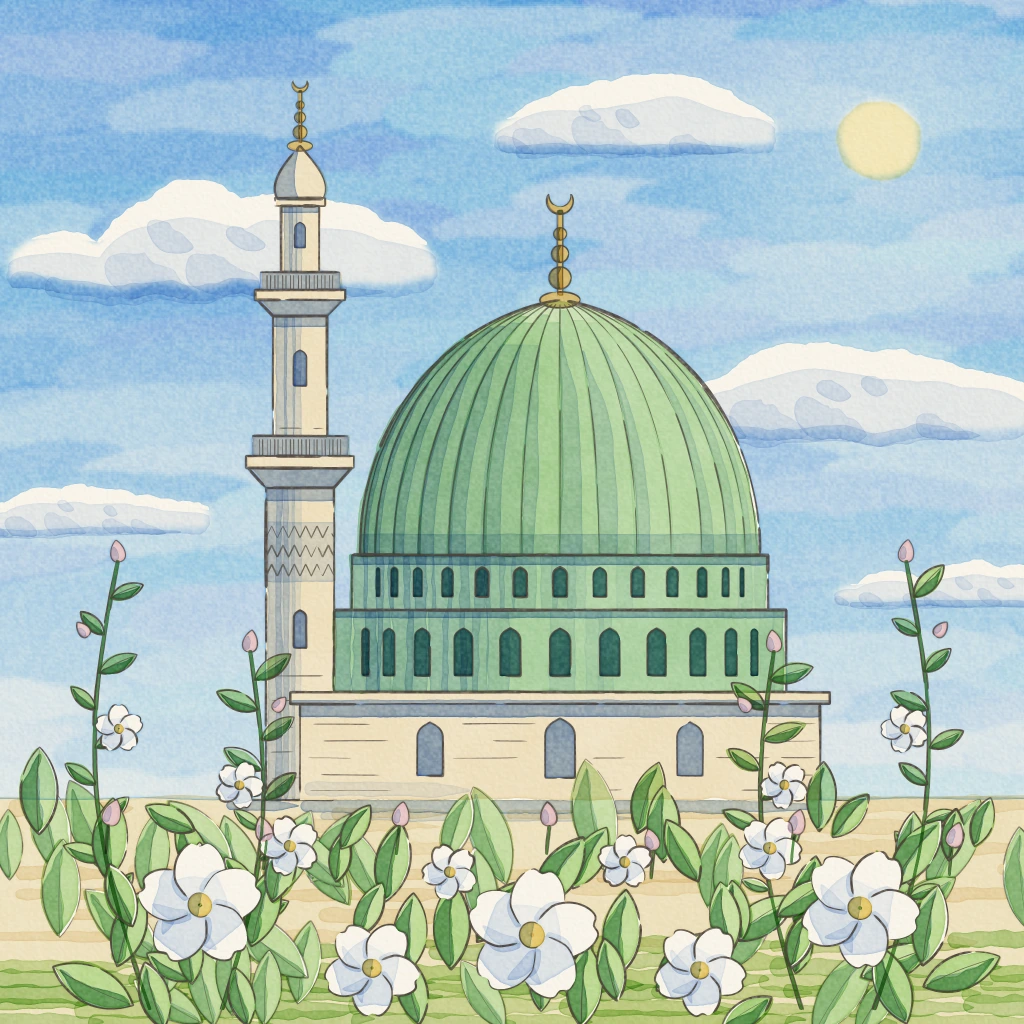
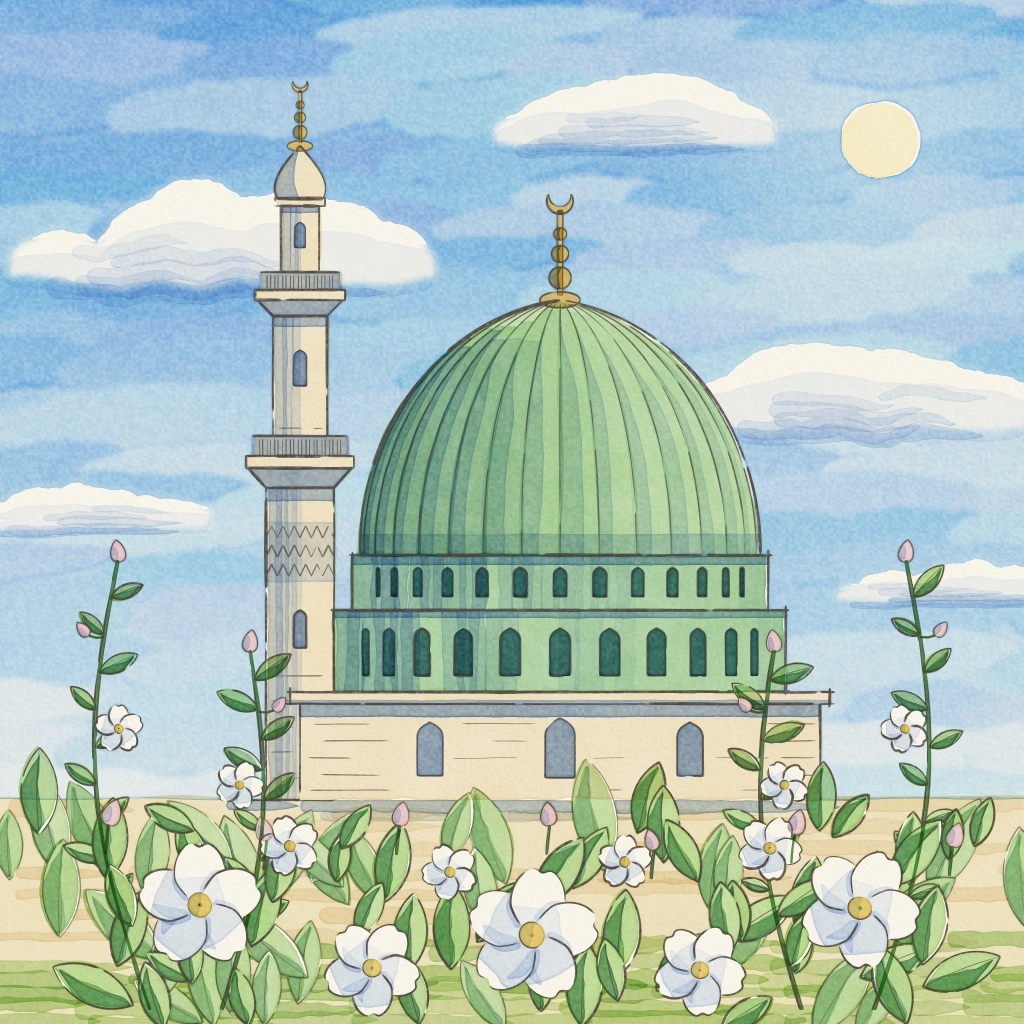
Atölye: ikinci iyileştirme turu: S-210, S-215, S-219, S-225
Claude-Session: https://claude.ai/code/session_01Q8CfoBGMPN7gfLWQYpMs1J

diff --git a/atolye/stiller/S-219-topografik-renkli-cizim/ornek.html b/atolye/stiller/S-219-topografik-renkli-cizim/ornek.html
@@ -603,23 +603,6 @@ function cicekBicimi(c) {
   }
   return out;
 }
-/** Düzensiz, yatay uzanan bulut biçimi (tabanı düzce, üstü yumuşak dalgalı; pul pul değil). */
-function bulutBicimi(cx, cy, rx, ry, tohum) {
-  const nz = gurultu(tohum);
-  const pts = [];
-  const n = 120;
-  for (let i = 0; i < n; i++) {
-    const t = (i / n) * Math.PI * 2;
-    const c = Math.cos(t);
-    const s = Math.sin(t);
-    let r = 1 + 0.22 * (nz.n(c * 1.6 + 5, s * 1.6 + 5) - 0.5) * 2 + 0.08 * (nz.n(c * 4 + 9, s * 4 + 2) - 0.5) * 2;
-    let x = cx + c * rx * r;
-    let y = cy + s * ry * r * (s < 0 ? 1.05 : 0.55);
-    if (s > 0) y = Math.min(y, cy + ry * 0.38 + (nz.n(c * 3, 7) - 0.5) * ry * 0.15);
-    pts.push([x, y]);
-  }
-  return pts;
-}
 /** Sahnedeki bütün biçimler (titreme genliği amp). */
 function sahneSekilleri(amp) {
   amp = amp == null ? 0.6 : amp;
@@ -664,163 +647,6 @@ function sahneSekilleri(amp) {
   G.tomurcukSekil = sekil(G.tomurcuklar.map((t) => t.pts));
   G.saplar = B.saplar;
   return G;
-}
-
-/**
- * Kümülüs bulutu: birkaç farklı boyda tümseğin yumuşak birleşimi (pul pul değil), tabanı düzce.
- * Döner: {pts: dış çizgi, ust(x): üst kenar yüksekliği, taban, x0, x1, golge(oran, tohum): alt kısmın çokgeni}
- */
-function kumulus(x0, x1, taban, h, tohum) {
-  const r = S.rng(tohum);
-  const nz = gurultu(tohum);
-  const w = x1 - x0;
-  const k = 3 + Math.floor(r() * 2);
-  const tum = [{ c: x0 + w * (0.36 + 0.26 * r()), s: w * (0.26 + 0.06 * r()), h }];
-  for (let i = 1; i < k; i++) tum.push({ c: x0 + w * (0.14 + 0.72 * r()), s: w * (0.13 + 0.14 * r()), h: h * (0.42 + 0.4 * r()) });
-  const tau = h * 0.14;
-  const N = 90;
-  const ust = [];
-  const alt = [];
-  const yuk = [];
-  for (let i = 0; i <= N; i++) {
-    const t = i / N;
-    const x = x0 + w * t;
-    let s = 0;
-    for (const b of tum) {
-      const d = (x - b.c) / b.s;
-      const v = d * d < 1 ? b.h * Math.pow(1 - d * d, 0.85) : 0;
-      s += Math.exp(v / tau);
-    }
-    let ht = tau * Math.log(Math.max(1, s - (tum.length - 1)));
-    ht *= Math.pow(Math.sin(Math.PI * t), 0.35);
-    ht += h * 0.05 * (nz.n(t * 7, 1) - 0.5) * 2 * Math.sin(Math.PI * t);
-    ht = Math.max(ht, h * 0.1 * Math.pow(Math.sin(Math.PI * t), 0.5));
-    yuk.push(ht);
-    ust.push([x, taban - ht]);
-    alt.push([x, taban + h * 0.07 * Math.pow(Math.sin(Math.PI * t), 0.6) + h * 0.03 * (nz.n(t * 5, 9) - 0.5)]);
-  }
-  const pts = ust.concat(alt.slice().reverse());
-  function golge(oran, ek) {
-    const g = [];
-    for (let i = 0; i <= N; i++) {
-      const t = i / N;
-      const kes = taban - yuk[i] * oran + h * 0.09 * (nz.n(t * 4 + ek, 3 + ek) - 0.5) * 2;
-      g.push([ust[i][0], Math.max(ust[i][1], Math.min(alt[i][1] - 0.5, kes))]);
-    }
-    return g.concat(alt.slice().reverse());
-  }
-  return { pts, golge, taban, x0, x1, h, yuk, ust, alt };
-}
-
-/**
- * Yatay bulut kümesi (stratokümülüs): uzun, alçak; üstü düzensiz dalgalı, uçları ince kuyruklu, tabanı düz.
- * Döner kumulus ile aynı biçimde nesne.
- */
-function bulutBandi(x0, x1, taban, h, tohum) {
-  const nz = gurultu(tohum);
-  const r = S.rng(tohum);
-  const w = x1 - x0;
-  const N = 110;
-  const ust = [];
-  const alt = [];
-  const yuk = [];
-  const tum = [];
-  const nt = 3 + Math.floor(r() * 3);
-  for (let i = 0; i < nt; i++) tum.push({ c: 0.18 + (0.64 * (i + 0.2 + r() * 0.6)) / nt, s: 0.09 + r() * 0.09, a: 0.45 + r() * 0.55 });
-  tum[Math.floor(r() * nt)].a = 1;
-  let enb = 0;
-  const ham = [];
-  for (let i = 0; i <= N; i++) {
-    const t = i / N;
-    let v = 0;
-    for (const b of tum) v = Math.max(v, b.a * Math.exp(-Math.pow((t - b.c) / b.s, 2)));
-    let v2 = 0;
-    for (const b of tum) v2 += b.a * Math.exp(-Math.pow((t - b.c) / b.s, 2));
-    ham.push(0.65 * v + 0.35 * Math.min(1.2, v2));
-    enb = Math.max(enb, ham[i]);
-  }
-  for (let i = 0; i <= N; i++) {
-    const t = i / N;
-    const x = x0 + w * t;
-    const kuyruk = Math.pow(Math.sin(Math.PI * t), 0.3);
-    let ht = h * kuyruk * (0.26 + 0.74 * (ham[i] / enb)) + h * 0.04 * (nz.n(t * 9, 1.3) - 0.5) * 2 * kuyruk;
-    ht = Math.max(ht, h * 0.16 * kuyruk);
-    yuk.push(ht);
-    ust.push([x, taban - ht]);
-    alt.push([x, taban + h * 0.12 * Math.pow(Math.sin(Math.PI * t), 0.5) * (0.6 + 0.8 * nz.n(t * 6 + 20, 4))]);
-  }
-  const pts = ust.concat(alt.slice().reverse());
-  const ortYuk = yuk.reduce((a, v) => a + v, 0) / yuk.length;
-  function golge(oran, ek) {
-    const g = [];
-    for (let i = 0; i <= N; i++) {
-      const t = i / N;
-      // gölgenin üst sınırı tümseklerin tepesini izlemez (sırt gibi görünmesin): ortalama yüksekliğe yakın, dalgalı
-      const kes = taban - (0.3 * yuk[i] + 0.7 * ortYuk * Math.pow(Math.sin(Math.PI * t), 0.3)) * oran + h * 0.12 * (nz.n(t * 6 + ek, 3 + ek) - 0.5) * 2;
-      g.push([ust[i][0], Math.max(ust[i][1], Math.min(alt[i][1] - 0.5, kes))]);
-    }
-    return g.concat(alt.slice().reverse());
-  }
-  return { pts, golge, taban, x0, x1, h, yuk, ust, alt };
-}
-
-/**
- * Bulut kümesi: tabanı düz, farklı boyda birkaç tümseğin birleşimi (her tümsek elle titretilmiş yassı elips).
- * Döner: {sk: bütün bulut (birleşim), lobes, golge(oran, ek): tabandan oran·h yüksekliğe kadar alt kısım (birleşim)}
- * Gölgenin üst sınırı tümseklerin çizgisini izlemez, hafif dalgalı yatay bir çizgidir (ışık tepeleri açık bırakır).
- */
-function bulutKumesi(x0, x1, taban, h, tohum, o) {
-  o = o || {};
-  const r = S.rng(tohum);
-  const nz = gurultu(tohum);
-  const w = x1 - x0;
-  const lob = [];
-  const n = Math.max(3, Math.round(w / (o.lobBoy || 58)));
-  for (let i = 0; i < n; i++) {
-    const t = (i + 0.5 + (r() - 0.5) * 0.7) / n;
-    const env = Math.pow(Math.sin(Math.PI * kenet(t, 0.02, 0.98)), 0.7);
-    const ry = h * (0.3 + 0.7 * env * (0.55 + 0.45 * r()));
-    const rx = Math.min(w * 0.3, ry * (1.05 + 0.7 * r()));
-    lob.push({ cx: x0 + w * t, cy: taban - ry * (0.62 + 0.15 * r()), rx, ry });
-  }
-  lob.push({ cx: x0 + w * 0.5, cy: taban - h * 0.12, rx: w * 0.5, ry: h * 0.26 });
-  const tabanY = (x) => taban + h * 0.035 * (nz.n(x / 40, 3) - 0.5) * 2;
-  const pz = o.puruz != null ? o.puruz : 0.07;
-  const ham = lob.map((L, j) => {
-    const pts = [];
-    const m = 72;
-    for (let k = 0; k < m; k++) {
-      const a = (k / m) * Math.PI * 2;
-      const q = 1 + pz * (nz.n(Math.cos(a) * 1.5 + j * 3.1, Math.sin(a) * 1.5 + j) - 0.5) * 2 + pz * 0.5 * (nz.n(Math.cos(a) * 4 + j * 1.3, Math.sin(a) * 4 + 9) - 0.5) * 2;
-      pts.push([L.cx + Math.cos(a) * L.rx * q, L.cy + Math.sin(a) * L.ry * q]);
-    }
-    return titret(pts, true, o.amp != null ? o.amp : 0.9, 0.05, 1.5);
-  });
-  const kes = (dy) => ham.map((p) => p.map(([x, y]) => [x, Math.min(y, tabanY(x) + (dy || 0))]));
-  const titrek = kes(0);
-  /** x'teki bulut tepesinin yüksekliği (0..1, h'ye göre). */
-  const tepeHam = (x) => {
-    let t = 0;
-    for (const L of lob) {
-      const d = (x - L.cx) / L.rx;
-      if (d * d < 1) t = Math.max(t, taban - (L.cy - L.ry * Math.sqrt(1 - d * d)));
-    }
-    return t / h;
-  };
-  const tepe = (x) => kenet(tepeHam(x), 0, 1.2);
-  /** Alt (gölge) kısım: üst sınırı tepeyi kısmen izleyen dalgalı çizgi; uzat > 0 → tabanın altına taşar. */
-  function golge(oran, ek, uzat, izle) {
-    const cizgi = izle
-      ? (x) => taban - h * oran * tepeHam(x) + h * 0.07 * (nz.n(x / 45 + (ek || 0) * 5.3, 7 + (ek || 0)) - 0.5) * 2
-      : (x) => taban - h * oran * (0.45 + 0.75 * tepe(x)) + h * 0.11 * (nz.n(x / 55 + (ek || 0) * 5.3, 7 + (ek || 0)) - 0.5) * 2;
-    return sekil(kes(uzat || 0).map((p) => p.map(([x, y]) => [x, Math.max(y, Math.min(cizgi(x), tabanY(x) - 0.5))])));
-  }
-  function ust(oran, ek) {
-    const cizgi = (x) => taban - h * oran + h * 0.07 * (nz.n(x / 60 + (ek || 0) * 3.7, 17 + (ek || 0)) - 0.5) * 2;
-    return sekil(titrek.map((p) => p.map(([x, y]) => [x, Math.min(y, cizgi(x))])));
-  }
-  const alt = (dy) => sekil([[[x0 - 60, taban + (dy || 0)], [x1 + 60, taban + (dy || 0)], [x1 + 60, taban + 260], [x0 - 60, taban + 260]]]);
-  return { sk: sekil(titrek), lob, golge, ust, alt, tepe, tepeHam, taban, h, x0, x1 };
 }
 
 
@@ -956,6 +782,15 @@ for (const [ya, yb, yr, ad] of [[598, 796, 34, 25], [330, 430, 27, 24]]) {
     yy += ad + (r() - 0.5) * 4;
   }
 }
+/** Dikdörtgen: dört kenar ayrı ayrı çekilir, köşelerde kalem birkaç piksel taşar (çizerin alışkanlığı). */
+const kutu = (x1, y1, x2, y2, w, o) => {
+  const e = () => 2 + rP() * 3.5;
+  const dy = () => (rP() - 0.5) * 0.8;
+  cz([[x1 - e(), y1 + dy()], [x2 + e(), y1 + dy()]], w, Object.assign({ basSivri: 2, sonSivri: 3 }, o || {}));
+  cz([[x1 - e(), y2 + dy()], [x2 + e(), y2 + dy()]], w, Object.assign({ basSivri: 2, sonSivri: 3 }, o || {}));
+  cz([[x1 + dy(), y1 - e()], [x1 + dy(), y2 + e()]], w, Object.assign({ basSivri: 2, sonSivri: 3 }, o || {}));
+  cz([[x2 + dy(), y1 - e()], [x2 + dy(), y2 + e()]], w, Object.assign({ basSivri: 2, sonSivri: 3 }, o || {}));
+};
 const alemCizgi = (A, k) => {
   kapali(elips(A.yaka.cx, A.yaka.cy, A.yaka.rx, A.yaka.ry, 0, 40), 1.0 * k);
   cz([[A.cubuk.x1, A.cubuk.y1], [A.cubuk.x1, A.cubuk.y2]], 0.8 * k);
@@ -970,7 +805,7 @@ alemCizgi(G.alemP, 1.1);
 const K = S.kaide;
 cz([[K.x1, K.y1], [K.x1, K.y2]], 1.6);
 cz([[K.x2, K.y1], [K.x2, K.y2]], 1.6);
-kapali(dikd(K.kornis.x1, K.kornis.y1, K.kornis.x2, K.kornis.y2), 1.3);
+kutu(K.kornis.x1, K.kornis.y1, K.kornis.x2, K.kornis.y2, 1.3);
 for (const p of K.pencereler) kapali(kemerPoli(p.x, p.y, p.w, p.h), 1.2);
 for (const yy of [724, 741, 758, 775, 790]) {
   let x = K.x1 + 4 + r() * 20;
@@ -982,7 +817,7 @@ for (const yy of [724, 741, 758, 775, 790]) {
   }
 }
 // kasnak
-for (const q of S.kasnak) kapali(dikd(q.x1, q.y1, q.x2, q.y2), 1.6);
+for (const q of S.kasnak) kutu(q.x1, q.y1, q.x2, q.y2, 1.6);
 G.kasnakPencereP.forEach((Lp) => Lp.forEach((p) => kapali(kemerPoli(p.x, p.y, p.w, p.h), p.w > 12 ? 1.05 : 0.9)));
 // kubbe
 cz(S.kubbeNoktalari(120), 1.85);
@@ -1025,6 +860,13 @@ G.tomurcuklar.forEach((T) => {
     T.sap = [[ax, ay], [ax - 2, ay + 18], [ax - 3, ay + 30]];
     cz(T.sap.map(([x, y]) => [x - 1.3, y]), 0.8, { sonSivri: 10 });
     cz(T.sap.map(([x, y]) => [x + 1.3, y]), 0.8, { sonSivri: 10 });
+  } else if (T.i % 2 === 1) {
+    // yan tomurcuk: saptan ona uzanan kısa bir dal
+    const st = G.saplar[(T.i - 1) / 2][20];
+    const ax = t.x - Math.cos(t.aci) * t.r * 0.8;
+    const ay = t.y - Math.sin(t.aci) * t.r * 0.8;
+    T.sap = [[st[0], st[1] + 2], [(st[0] + ax) / 2, (st[1] + ay) / 2 + 2.5], [ax, ay]];
+    cz(T.sap, 0.9, { basSivri: 2, sonSivri: 3, surekli: true });
   }
   kapali(T.pts, 0.95);
 });
@@ -1143,27 +985,29 @@ const bulutlar = [
   bulutKutlesi(-50, 196, 532, 40, 2194),
   bulutKutlesi(840, 1076, 604, 36, 2195),
 ];
-const bulutSekil = birlesik(bulutlar.map((b) => b.sk));
 // gök lavisinin keskin bittiği ışıklı üst kısım ve yumuşak bittiği orta kısım (tabanın altı gökle birleşir)
 const bulutUst = birlesik(bulutlar.map((b) => b.ustunde((x) => b.taban - b.h * (0.3 + 0.35 * b.tepe(x)) + b.h * 0.06 * (b.nz.n(x / 50, 21) - 0.5) * 2)));
 const bulutOrta = birlesik(bulutlar.map((b) => b.ustunde((x) => b.tabanY(x) - b.h * 0.12)));
 bulutlar.forEach((b, bi) => {
   const op = Object.assign({}, gmF, { haric: rez, kuru: 0.3, rim: 0.75 });
   const nzb = b.nz;
-  // gölgeli alt yarı: üst sınırı tümseklerin biçimini kısmen izleyen dalgalı çizgi, kurumuş kenarlı tek kat
-  L(b.altinda((x) => b.taban - b.h * (0.06 + 0.62 * b.tepe(x)) + b.h * 0.07 * (nzb.n(x / 45, 31) - 0.5) * 2), GM(0.12), Object.assign({}, op, { rimR: 2.6 }));
-  // her tümseğin sol alt yanı: kısa, geniş bir fırça darbesi
-  for (const Lb of b.lob) {
-    if (Lb.ry < b.h * 0.3) continue;
-    const ins = Lb.ry * 0.38;
-    const pts = [];
-    const a0 = Math.PI * (0.5 + rW() * 0.1);
-    const a1 = Math.PI * (0.95 + rW() * 0.12);
-    for (let i = 0; i <= 16; i++) {
-      const a = a0 + ((a1 - a0) * i) / 16;
-      pts.push([Lb.cx + Math.cos(a) * (Lb.rx - ins), Lb.cy + Math.sin(a) * (Lb.ry - ins)]);
+  // gölgeli alt yarı: üst sınırı tümseklerin biçimini kısmen izleyen dalgalı çizgi, çok açık tek kat
+  L(b.altinda((x) => b.taban - b.h * (0.1 + 0.55 * b.tepe(x)) + b.h * 0.07 * (nzb.n(x / 45, 31) - 0.5) * 2), GM(0.07), Object.assign({}, op, { rimR: 2.6 }));
+  // alt kısım gökteki gibi yatay fırça geçişleriyle modellenir: tabana yakın uzun, yukarı doğru kısa ve dar
+  {
+    const w0 = b.x1 - b.x0;
+    const ns = 4 + Math.floor(rW() * 3);
+    for (let i = 0; i < ns; i++) {
+      const q = i / (ns - 1);
+      const uzun = w0 * (0.75 - 0.4 * q) * (0.8 + 0.3 * rW());
+      const xa = b.x0 + w0 * 0.04 + rW() * Math.max(0, w0 * 0.92 - uzun);
+      const pts = [];
+      for (let k = 0; k <= 24; k++) {
+        const x = xa + (uzun * k) / 24;
+        pts.push([x, b.tabanY(x) - b.h * (0.1 + 0.36 * q) * (0.75 + 0.5 * b.tepe(x)) + (nzb.n(x / 60, 40 + i) - 0.5) * b.h * 0.06]);
+      }
+      L(firca(pts, b.h * (0.24 - 0.09 * q), { son: 0.4, bas: 0.08, puruz: 0.12 }), GM(0.07 + 0.05 * (1 - q) + rW() * 0.03), Object.assign({}, op, { kirp: b.sk }));
     }
-    L(firca(pts.reverse(), Lb.ry * 0.62, { son: 0.5, bas: 0.2, puruz: 0.1 }), GM(0.1 + rW() * 0.05), Object.assign({}, op, { kirp: b.sk }));
   }
   // taban: bulutun altı boyunca yatay bir darbe; alt kenarı gök mavisinin içine biraz taşar
   const w = b.x1 - b.x0;
@@ -1197,11 +1041,7 @@ L(sekilYol(`M278,200 C266,182 288,160 300,146 C296,160 290,182 300,200 Z`, 0.4, 
 L(sekilPoli(dikd(299, 704, 821, 717), 0.5, 0.04), GM(0.6), Object.assign({ haric: bitkiRez }, gm));
 L(sekilPoli(dikd(289, 700, 831, 704.5), 0.4, 0.06), GM(0.4), Object.assign({ haric: bitkiRez }, gm));
 K.pencereler.forEach((p, i) => L(G.kaidePencere[i], GM(0.8), Object.assign({ haric: bitkiRez }, gm)));
-for (const [x1, x2, y, d] of [[300, 470, 789, 0.1]]) {
-  L(firca(hat(x1 + 4, y + (rW() - 0.5) * 3, x2, y + (rW() - 0.5) * 3), 12 + rW() * 5, { son: 0.3 }), GM(d), Object.assign({}, gmF, { kirp: G.kaide, haric: bitkiRez }));
-}
 // kasnak: silindir; sol yandan sağa doğru seyrekleşen dikey darbeler (keskin bir gölge sınırı yok)
-const kasnakSk = birlesik(G.kasnak);
 S.kasnak.forEach((q, qi) => {
   const bant = G.kasnak[qi];
   let x = q.x1 + 1;
@@ -1248,10 +1088,10 @@ const kubbeOp = Object.assign({}, gmF, { kirp: G.kubbe, rimR: 2.2 });
 for (let k = 0; k < 16; k++) {
   const b1 = -Math.PI / 2 + GW * k;
   const sf = 1 - (k + 0.5) / 16; // 1 solda, 0 sağda
-  if (k <= 6) L(dilimDarbesi(b1 - GW * 0.06, GW * 1.1, 316 + rW() * 30, 557, 5100 + k, false), GM(0.08 + 0.36 * Math.pow(1 - k / 7, 1.2)), kubbeOp);
+  if (k <= 6) L(dilimDarbesi(b1 - GW * 0.06, GW * 1.1, 316 + rW() * 30, 557, 5100 + k, false), GM(0.08 + 0.46 * Math.pow(1 - k / 7, 1.15)), kubbeOp);
   if (rW() < 0.12 && k > 6) continue;
   const gen = GW * (0.32 + rW() * 0.28);
-  L(dilimDarbesi(b1, gen, 312 + rW() * 50, 557, 5200 + k, true), GM(0.1 + 0.24 * sf), kubbeOp);
+  L(dilimDarbesi(b1, gen, 312 + rW() * 50, 557, 5200 + k, true), GM(0.1 + 0.26 * sf), kubbeOp);
 }
 L(sekilPoli(kubbeDilimi(-Math.PI / 2 - 0.02, Math.PI / 2 + 0.02, 534, 557, 20), 0.5, 0.05), GM(0.26), gm);
 // alemler: sol yarı
@@ -1364,7 +1204,7 @@ G.cicekler.forEach((C) => {
     const t = 0.55 * Math.PI + (i / 20) * Math.PI;
     pts.push([c.x + Math.cos(t) * c.r * 0.2, c.y + Math.sin(t) * c.r * 0.19]);
   }
-  L(sekilPoli(pts, 0.3, 0.1, 0.8), GM(0.35), Object.assign({}, gm, { rimR: 1.2 }));
+  L(sekilPoli(pts, 0.3, 0.1, 0.8), GM(0.17), Object.assign({}, gm, { rimR: 1.2 }));
 });
 // tomurcukların gölge yanı
 G.tomurcuklar.forEach((T) => {
@@ -1423,17 +1263,17 @@ const gunesDisk = sekilPoli(elips(gunes.x, gunes.y, 40, 39, 0.3, 64), 2.2, 0.07,
         alt.push([xx, m + hh / 2 + (nzG.n(xx / 22, ii + 9) - 0.5) * 6]);
       }
       const pts = ust.concat(alt.reverse());
-      const v = Math.round(128 * (0.62 + 0.76 * rr()));
+      const v = Math.round(128 * (0.55 + 0.9 * rr()));
       const hu = Math.round(255 * rr());
       fx.fillStyle = `rgb(${v},${hu},0)`;
       fx.beginPath();
       pts.forEach(([px, py], j) => (j ? fx.lineTo(px, py) : fx.moveTo(px, py)));
       fx.closePath();
       fx.fill();
-      if (rr() < 0.5) {
+      if (rr() < 0.65) {
         // kuruyan kenar
         fx.strokeStyle = `rgba(${v},${hu},255,0.9)`;
-        fx.lineWidth = 2.2;
+        fx.lineWidth = 2.6;
         fx.beginPath();
         alt.forEach(([px, py], j) => (j ? fx.lineTo(px, py) : fx.moveTo(px, py)));
         fx.stroke();
@@ -1463,12 +1303,12 @@ const gunesDisk = sekilPoli(elips(gunes.x, gunes.y, 40, 39, 0.3, 64), 2.2, 0.07,
     for (let x = 1064; x >= -40; x -= 8) pts.push([x, 800 + (nzU.n(x / 70, 2) - 0.5) * 4]);
     return sekil([pts]);
   })();
-  const ortak = Object.assign({}, yerel, { rim: 0.4, rimR: 2.4, boncuk: 0.3, gran: 0.3, dalga: 0.2, dalgaO: 1.5, yatay: 4, kuru: 0.2, haric: rez.concat([bulutUst]), haricYum: [bulutOrta, gunesDisk], haricYumR: 3.5, havuz: 0 });
+  const ortak = Object.assign({}, yerel, { rim: 0.4, rimR: 2.4, boncuk: 0.3, gran: 0.3, dalga: 0.2, dalgaO: 1.5, yatay: 4, kuru: 0.2, haric: rez.concat([bulutUst, gunesDisk]), haricYum: [bulutOrta], haricYumR: 3.5, havuz: 0 });
   const yuk = (px, py) => egim(py) * gunesK(px, py) * alan(px, py, 0) * 2 * (1 + 0.9 * alan(px, py, 2));
   L(gokSk, od('#7FBFF0', 0.76), Object.assign({}, ortak, { carp: (px, py) => yuk(px, py) * alan(px, py, 1) }));
   L(gokSk, od('#93BCF2', 0.76), Object.assign({}, ortak, { carp: (px, py) => yuk(px, py) * (1 - alan(px, py, 1)) }));
 }
-L(sekilPoli(elips(gunes.x - 0.8, gunes.y + 0.6, 41, 40, 0.3, 64), 2.0, 0.07, 1), od('#F4E7B0', 0.7), Object.assign({}, yerel, { yumusak: 0.8, dalga: 0.25 }));
+L(sekilPoli(elips(gunes.x - 0.6, gunes.y + 0.4, 38, 37, 0.3, 64), 1.6, 0.07, 1), od('#F7EDBC', 0.55), Object.assign({}, yerel, { rim: 0.5, boncuk: 0.25, dalga: 0.25 }));
 // taş
 L(kay(birlesik([G2.minare, G2.kaide, G2.kornis]), 1.2, -0.6), od('#F3E8D0', 1.0), Object.assign({ haric: bitkiRez }, yerel));
 // kubbe: önce bütün yüzeye soluk özsu yeşili, sonra dilim dilim ikinci yeşil kat (dilimler kaburgada hafifçe
@@ -1518,7 +1358,7 @@ L(zemin, od('#F0E5C6', 0.85), Object.assign({ haric: yapiRez.concat(bitkiHepsi) 
       const uz = 80 + rz() * 160;
       const ust = y < 975;
       const yy = y + (nzc.n(x / 120, y) - 0.5) * 22 * (ust ? 1 : 0.4);
-      if (!ust || rz() < 0.85) L(firca(hat(x, yy, x + uz, yy + (rz() - 0.5) * 4), 12 + rz() * 8, { son: 0.4, puruz: 0.12 }), od(rz() < 0.5 ? '#B3D68C' : '#A6CF86', 0.45 + rz() * 0.3), Object.assign({}, yerelF, { haric: bitkiHepsi }));
+      if (!ust || rz() < 0.85) L(firca(hat(x, yy, x + uz, yy + (rz() - 0.5) * 4), 12 + rz() * 8, { son: 0.4, puruz: 0.12 }), od(rz() < 0.5 ? '#B3D68C' : '#A6CF86', 0.4 + rz() * 0.35), Object.assign({}, yerelF, { haric: bitkiHepsi, rim: 0.45, boncuk: 0.2 }));
       x += uz - 10 - rz() * 20;
     }
   }

diff --git a/atolye/stiller/S-225-safevi-minyaturu/ornek.html b/atolye/stiller/S-225-safevi-minyaturu/ornek.html
@@ -628,11 +628,11 @@
       ctx.fillRect(-5, y, 1034, 18);
     }
     // örtücü lapis, düz bir alan gibi sabırla kaplanır: ressam alanı küçük yamalar hâlinde boyar; her yamada kısa,
-    // geniş vuruşlar aynı yöne gider, komşu yamada yön değişir (yataydan ±55°; rüzgâr ya da su akışı gibi tek yön yok); başı dolgun,
-    // sonu kuru ve incelir; tonu ve rengi fırçadan fırçaya değişir; vuruşların yarısı kenarında ince, koyuca bir hat bırakır
+    // geniş vuruşlar aynı yöne gider, komşu yamada yön zıt yana eğilir (yataydan 6–26°; rüzgâr ya da su akışı gibi tek yön yok); başı dolgun,
+    // sonu kuru ve incelir; tonu ve rengi fırçadan fırçaya değişir; vuruşların %40'ı kenarında ince, koyuca bir hat bırakır
     const yr = S.rng(22507);
     const yamalar = [];
-    // yamalar: konum, açı (yataydan en çok ±34°; komşu yamalar çaprazlaşır) ve fırçanın o yamadaki yükü (ton kayması)
+    // yamalar: konum, açı (yataydan 6–26°, komşu yamalar zıt yöne eğilir) ve fırçanın o yamadaki yükü (ton kayması)
     for (let y = -30; y < 700; y += 74) {
       for (let x = -30 + (yr() - 0.5) * 30; x < 1070; x += 74 + (yr() - 0.5) * 20) {
         const sg = yamalar.length % 2 ? 1 : -1;

diff --git a/atolye/stiller/S-210-kuzey-gun-isigi-yagliboya/ornek.html b/atolye/stiller/S-210-kuzey-gun-isigi-yagliboya/ornek.html
@@ -1415,7 +1415,7 @@ K.cicekOrta = function (c, cx, cy, r, renk, R, o) {
   const kasnakYol = K.p2d(G.kasnak);
   ctx.fillStyle = K.rk(P.yesil);
   ctx.fill(kasnakYol);
-  sirala(ctx, { kutu: [326, 550, 794, 698], satir: 7.2, en: [8, 10.5], boy: [22, 46], aci: (x, y, r) => (r() - 0.5) * 0.03, renk: (x, y, r) => tonla(model(K.kenet(x, 335, 785), K.kenet(y, 556, 690)), 10, r, 0.5), klip: kasnakYol, firca: fMim, h, hv: 0.38, tohum: 8, yay: 1 });
+  sirala(ctx, { kutu: [326, 550, 794, 698], satir: 7.2, en: [8, 10.5], boy: [22, 46], aci: (x, y, r) => (r() - 0.5) * 0.03, renk: (x, y, r) => tonla(model(y < 610 ? K.kenet(x, 356, 764) : K.kenet(x, 338, 782), K.kenet(y, 556, 690)), 10, r, 0.5), klip: kasnakYol, firca: fMim, h, hv: 0.38, tohum: 8, yay: 1 });
 
   // kubbe: her dilim iki üç şeritte, tabandan tepeye çekilmiş, üst üste binen kısa-orta boy darbelerle boyanır (her darbe
   // altta dolu ve yuvarlakça başlar, yukarıda incelir ve kurur; bir sonraki darbe onun ucunun üstünden başlar). Darbenin rengi
